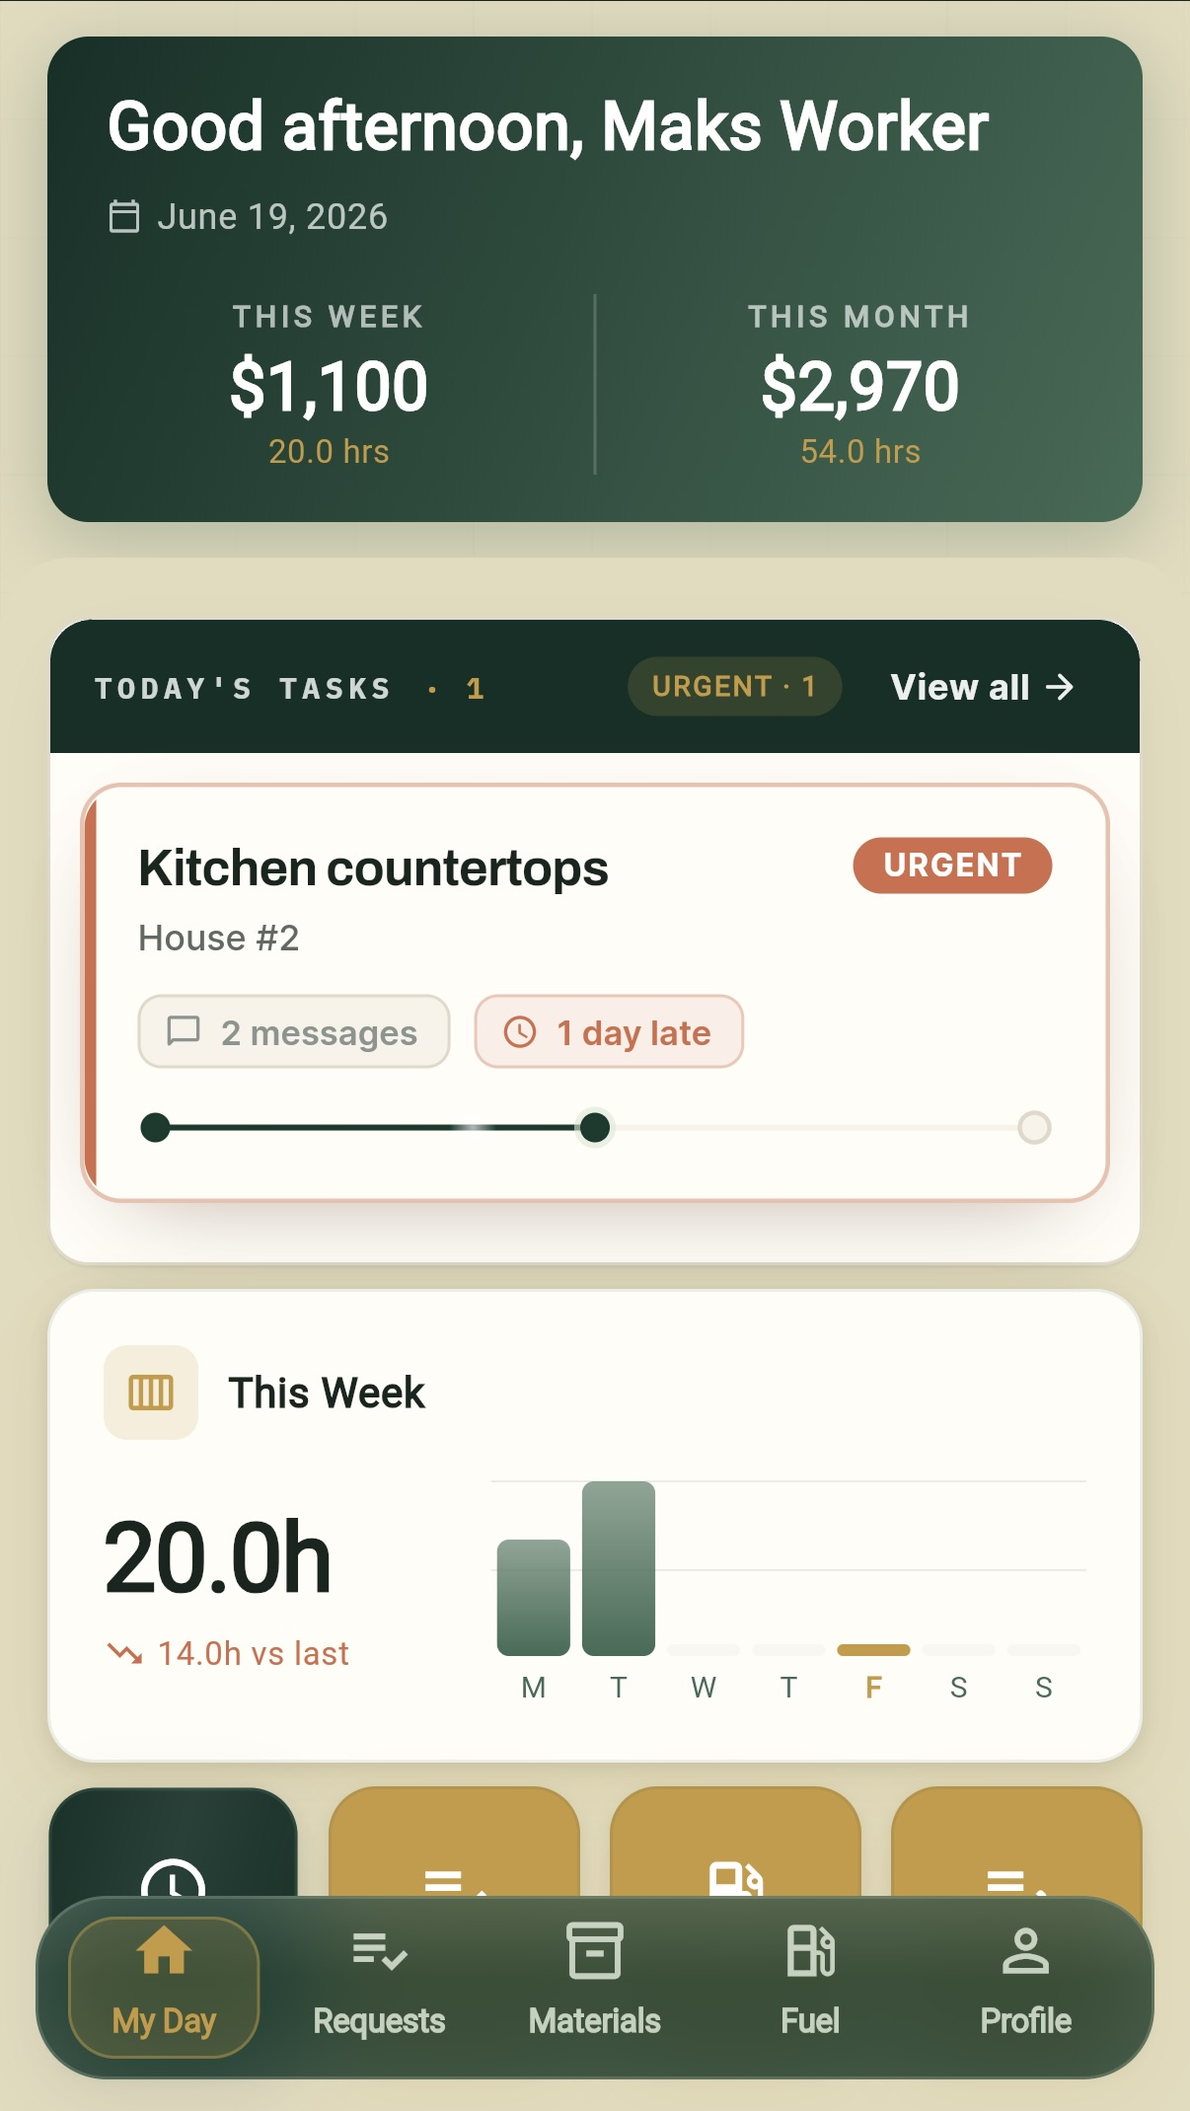
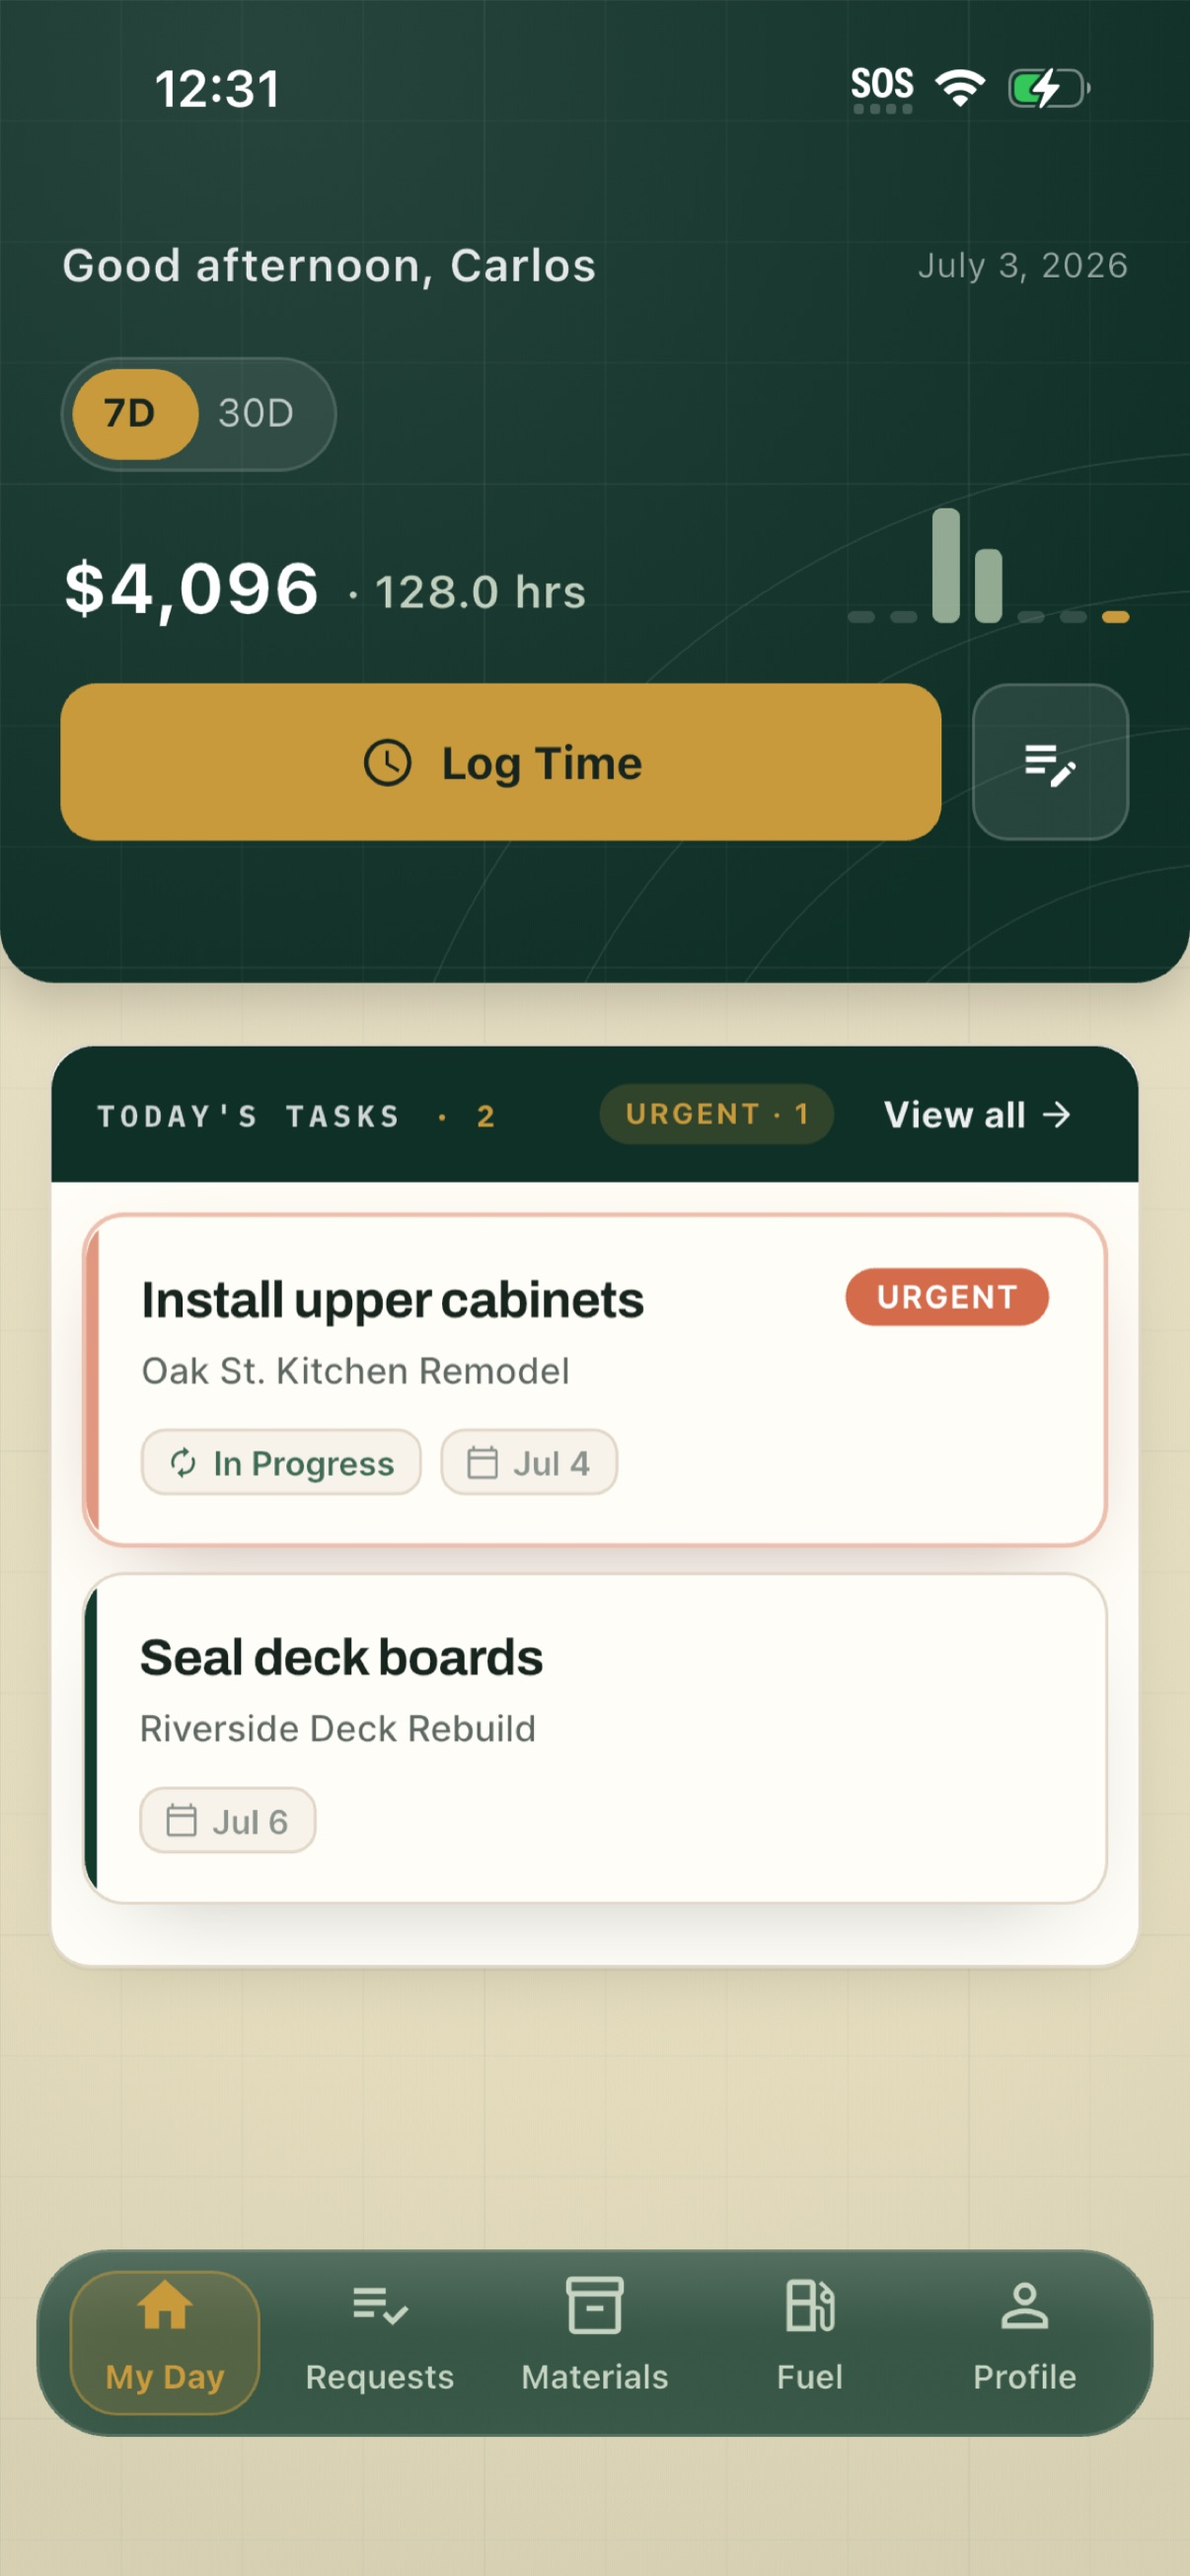
feat(how-it-works): swap in new Fable5 app screenshots
- Replace the 4 How-it-works screenshots with the new green/Fable5 design:
  projects overview (boss), worker My Day home, supply requests, project report.
  Optimized 1284x2778 PNGs -> ~300KB 1206x2609 JPEGs.
- Bump phone-frame aspect 1206/2150 -> 1206/2609 so the taller modern-iPhone
  shots render in full (no object-cover crop), desktop sticky + mobile inline.
- Update step-2 alt text (en/ru/es) to match the Requests screen.

diff --git a/src/components/HowItWorks.tsx b/src/components/HowItWorks.tsx
@@ -137,7 +137,7 @@ export default function HowItWorks() {
                       handles the visual. */}
                   <div className="md:hidden mt-6 flex justify-center">
                     <div className="relative w-[240px] rounded-[36px] p-[8px] bg-gradient-to-br from-[#3a4a52] to-[#24313a] shadow-[0_20px_40px_-16px_rgba(46,38,28,0.35)]">
-                      <div className="relative w-full aspect-[1206/2150] rounded-[28px] overflow-hidden bg-black/40">
+                      <div className="relative w-full aspect-[1206/2609] rounded-[28px] overflow-hidden bg-black/40">
                         <Image
                           src={step.screenshot}
                           alt={t(`steps.${i}.alt` as `steps.${number}.alt`)}
@@ -167,7 +167,7 @@ export default function HowItWorks() {
               {/* Phone body */}
               <div className="relative rounded-[44px] p-[10px] bg-gradient-to-br from-[#3a4a52] to-[#24313a] shadow-[0_40px_80px_-20px_rgba(0,0,0,0.7),0_0_0_1px_rgba(202,210,197,0.08),0_0_80px_rgba(82,121,111,0.18)]">
                 {/* Screen */}
-                <div className="relative w-full aspect-[1206/2150] rounded-[34px] overflow-hidden bg-black/40">
+                <div className="relative w-full aspect-[1206/2609] rounded-[34px] overflow-hidden bg-black/40">
                   {STEPS.map((s, i) => (
                     <Image
                       key={s.num}
